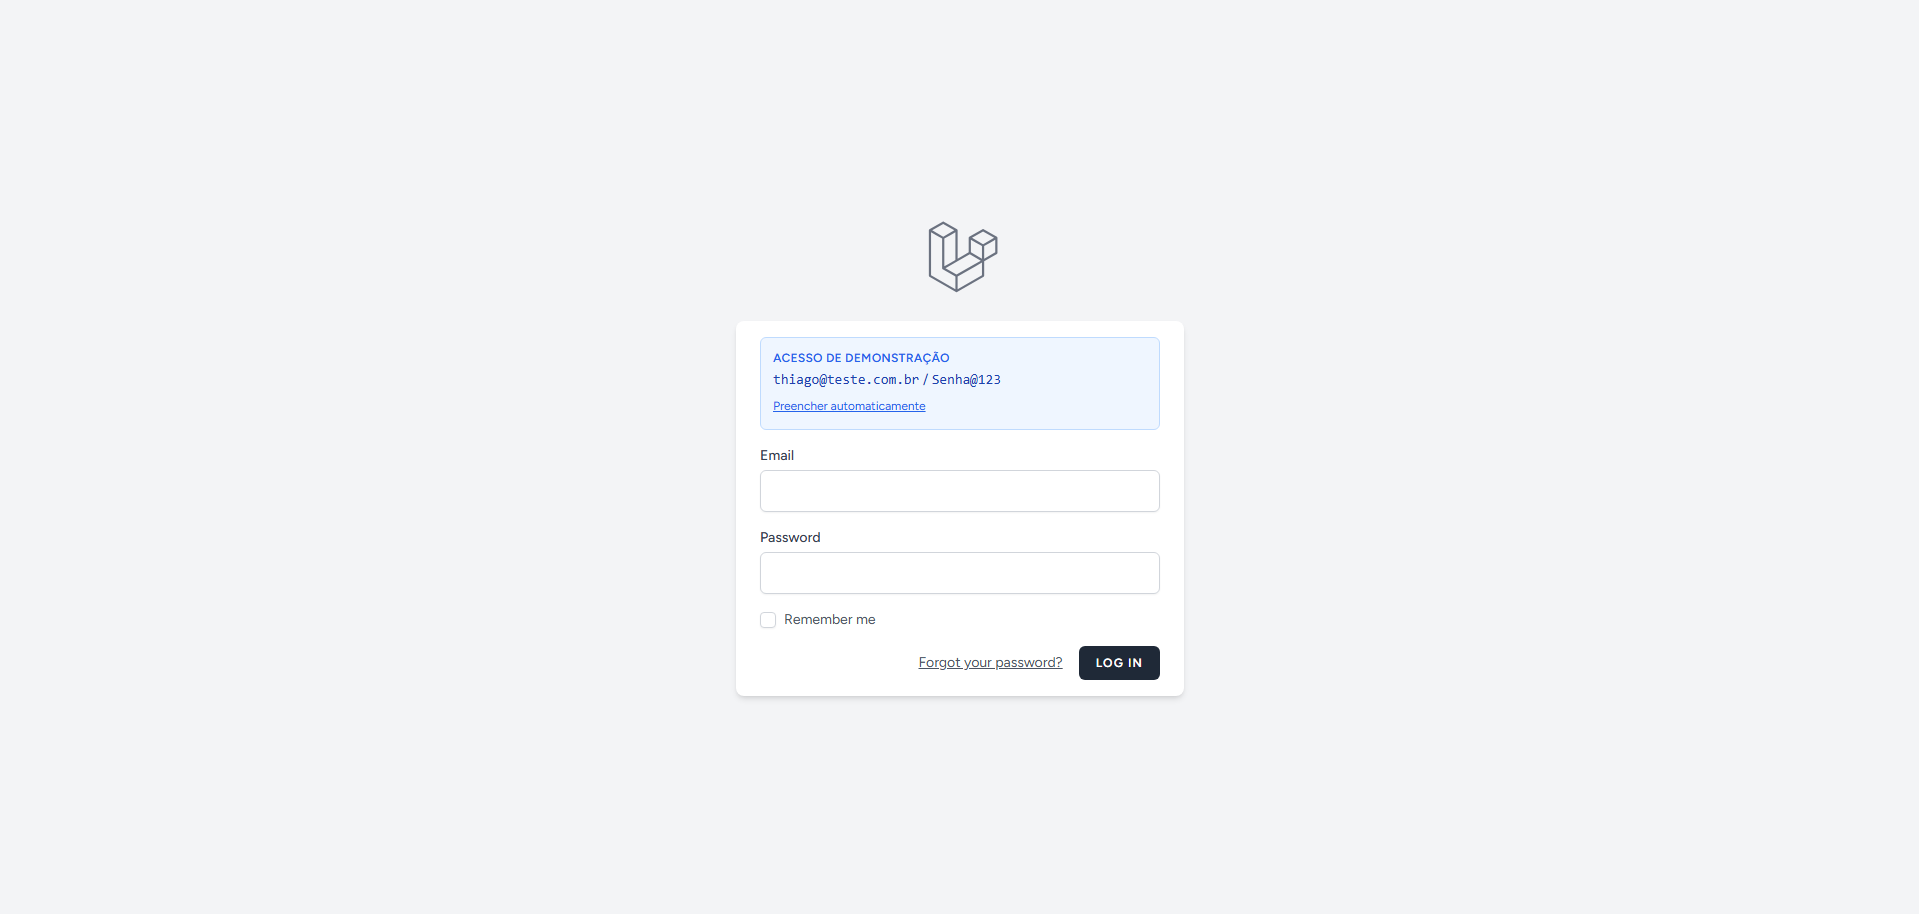
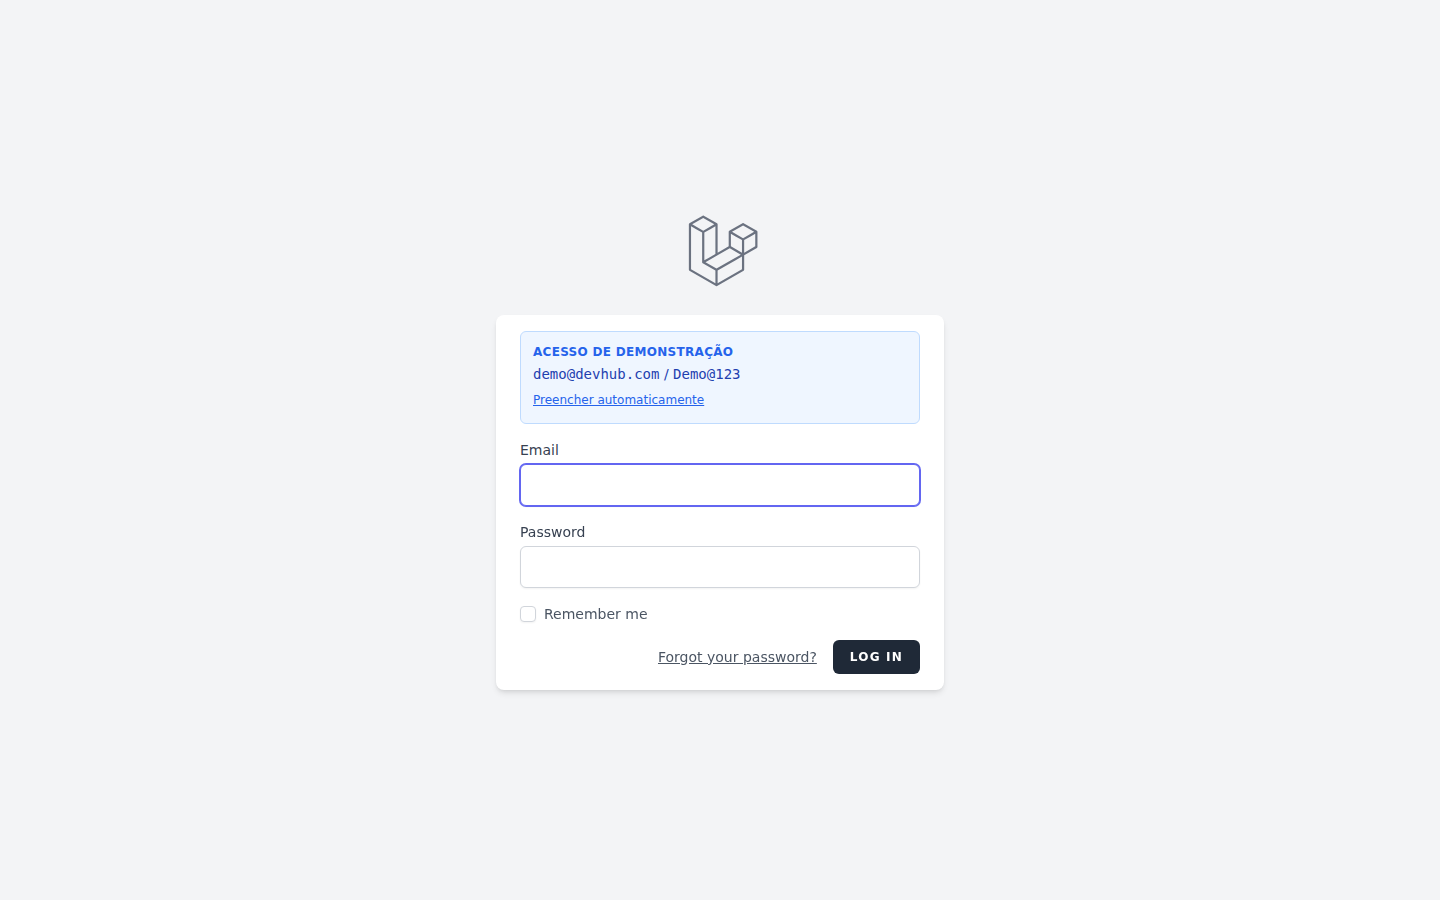
docs: atualiza README com novas funcionalidades e capturas de tela
- Documenta eventos/agenda, depoimentos, stack, página Sobre, tecnologias
  públicas e lixeira (soft delete)
- Amplia tabela da API (events, testimonials, stack, config, newsletter)
- Atualiza arquitetura, cobertura de testes (420 testes / 1693 asserções) e seed
- Adiciona prints de agenda, sobre, eventos e lixeira; atualiza GIF do
  frontend e demais capturas

diff --git a/README.md b/README.md
@@ -5,7 +5,7 @@
 ![PHP](https://img.shields.io/badge/PHP-8.3-777BB4?logo=php&logoColor=white)
 ![Laravel](https://img.shields.io/badge/Laravel-13-FF2D20?logo=laravel&logoColor=white)
 
-CMS full-stack construído do zero com Laravel 13 + React 18 — painel administrativo completo, API RESTful autenticada com Sanctum, sistema de newsletter com conformidade LGPD e frontend público com roteamento dinâmico.
+CMS full-stack construído do zero com Laravel 13 + React 18 — painel administrativo completo, API RESTful autenticada com Sanctum, sistema de newsletter com conformidade LGPD, agenda de eventos, depoimentos e um frontend público dinâmico com tema claro/escuro.
 
 > **Demo ao vivo:** [devhub-production-a6a5.up.railway.app](https://devhub-production-a6a5.up.railway.app) · **Admin:** [/admin](https://devhub-production-a6a5.up.railway.app/admin) (credenciais: `demo@devhub.com` / `Demo@123` — acesso somente leitura)
 
@@ -30,24 +30,33 @@ CMS full-stack construído do zero com Laravel 13 + React 18 — painel administ
 ## Funcionalidades
 
 ### Frontend público
-- Homepage com posts em destaque e listagem paginada
-- Página individual de post com prose rendering
-- Listagem de posts por categoria
+- Homepage modular: hero com estatísticas, post em destaque, explorador de posts, marquee de stack, carrossel de tecnologias, próximos eventos e depoimentos
+- Página individual de post com prose rendering, barra de progresso de leitura, botões de compartilhamento e navegação entre posts
+- Listagem de posts por categoria (roteamento dinâmico por slug)
+- Agenda de eventos (`/agenda`) com filtros por status, datas, CTAs e indicação de vagas
+- Página institucional "Sobre" (`/sobre`) com estatísticas e trilhas por categoria
+- Vitrine pública de tecnologias (`/tecnologias`)
+- Tema claro/escuro alternável, persistido no cliente
 - Menu de navegação dinâmico com suporte a submenus
+- `sitemap.xml` gerado dinamicamente
 - Banner de privacidade (LGPD)
 - Formulário de newsletter com consentimento explícito (LGPD)
 
 ### Painel administrativo
-- **Posts** — CRUD completo com editor rich-text (TipTap), upload de banner, slug automático, toggle ativo/inativo
-- **Páginas** — CRUD de páginas estáticas com banner, imagem principal, galeria de fotos e campos de SEO
-- **Categorias** — CRUD com cor customizável
+- **Posts** — CRUD completo com editor rich-text (TipTap), upload de banner, slug automático, agendamento de publicação, destaque na home e toggle ativo/inativo
+- **Páginas** — CRUD de páginas estáticas com imagem principal, galeria de fotos e campos de SEO
+- **Categorias** — CRUD com cor e ícone customizáveis
 - **Blocos de conteúdo** — trechos de HTML reutilizáveis identificados por slug
 - **Tecnologias** — vitrine de ferramentas com ícone, screenshot e link, reordenáveis
+- **Eventos** — agenda com tipo, data/hora, formato (online/presencial), status, CTA e controle de vagas, com filtros por período/tipo/status
+- **Depoimentos** — testemunhos com avatar, cargo e empresa, reordenáveis
+- **Stack** — itens de tecnologia exibidos no marquee da home, reordenáveis
 - **Menu** — gerenciamento de itens de navegação com suporte a hierarquia pai/filho e reordenação
 - **Configurações** — painel centralizado para nome do site, tagline, redes sociais, contato e scripts de terceiros
 - **Newsletter** — áreas temáticas, inscritos com consentimento LGPD e campanhas de e-mail
 - **Permissões e Papéis** — controle de acesso baseado em papéis (via Spatie Laravel Permission)
 - **Usuários** — gerenciamento de usuários e atribuição de papéis
+- **Lixeira** — soft delete em posts, categorias e páginas, com restauração ou exclusão definitiva e registro de quem excluiu
 - **Log de atividades** — histórico de ações com diff de alterações (via Spatie Activity Log)
 
 ### Sistema de Newsletter
@@ -63,7 +72,7 @@ CMS full-stack construído do zero com Laravel 13 + React 18 — painel administ
 - Autenticação via Bearer token (Laravel Sanctum)
 - Documentação Swagger UI disponível em `/api/docs`
 - Cache Redis em todos os endpoints com invalidação automática por tags (model events)
-- Rate limiting: `60 req/min` nos endpoints autenticados, `10 req/min` no login, `30 req/min` no health check
+- Rate limiting: `60 req/min` nos endpoints autenticados, `10 req/min` no login, `30 req/min` no health check e `5 req/h` na inscrição de newsletter
 
 | Método | Endpoint | Descrição |
 |--------|----------|-----------|
@@ -73,9 +82,16 @@ CMS full-stack construído do zero com Laravel 13 + React 18 — painel administ
 | `GET` | `/api/posts` | Lista posts ativos (paginado) |
 | `GET` | `/api/posts/{slug}` | Retorna um post pelo slug |
 | `GET` | `/api/categories` | Lista categorias |
+| `GET` | `/api/categories/{slug}` | Retorna uma categoria pelo slug |
+| `GET` | `/api/pages` | Lista páginas |
 | `GET` | `/api/pages/{slug}` | Retorna uma página |
 | `GET` | `/api/menu` | Estrutura do menu |
 | `GET` | `/api/technologies` | Lista tecnologias ativas (ordenadas) |
+| `GET` | `/api/events` | Lista eventos |
+| `GET` | `/api/testimonials` | Lista depoimentos |
+| `GET` | `/api/stack` | Lista itens de stack |
+| `GET` | `/api/config` | Configurações públicas do site |
+| `POST` | `/api/newsletter` | Inscrição na newsletter — público, com rate limit |
 | `GET` | `/api/health` | Health check (DB + cache) — público, sem autenticação |
 
 ## Arquitetura
@@ -87,13 +103,14 @@ app/
 │   └── GenerateApiToken.php
 ├── Http/
 │   ├── Controllers/
-│   │   ├── Admin/        # 18 controllers (Posts, Pages, Categories, Blocks,
-│   │   │                 # Technologies, Menu, Configs, Users, Roles,
-│   │   │                 # NewsletterAreas, NewsletterSubscribers,
-│   │   │                 # NewsletterCampaigns, ActivityLog, Gallery…)
-│   │   ├── Api/          # AuthController, PostController, CategoryController,
-│   │   │                 # PageController, MenuController, TechnologyController
-│   │   └── BlogController, HomeController, NewsletterController
+│   │   ├── Admin/        # 21 controllers (Posts, Pages, Categories, Blocks,
+│   │   │                 # Technologies, Events, Testimonials, StackItems,
+│   │   │                 # Menu, Configs, Users, Roles, NewsletterAreas,
+│   │   │                 # NewsletterSubscribers, NewsletterCampaigns,
+│   │   │                 # ActivityLog, Gallery, Reorder, Toggle…)
+│   │   ├── Api/          # Auth, Post, Category, Page, Menu, Technology,
+│   │   │                 # Event, Testimonial, Stack, Config, Health
+│   │   └── Home, Blog, Sobre, Agenda, Newsletter, Sitemap, Technology
 │   ├── Middleware/
 │   │   ├── EnsureAdmin.php
 │   │   └── ResourcePermission.php
@@ -103,12 +120,13 @@ app/
 ├── Mail/
 │   └── NewsletterCampaignMail.php
 ├── Models/               # Post, Page, GalleryImage, Category, Block, Technology,
-│                         # MenuItem, Config, User, Role,
-│                         # NewsletterArea, NewsletterSubscriber,
+│                         # Event, Testimonial, StackItem, MenuItem, Config,
+│                         # User, Role, NewsletterArea, NewsletterSubscriber,
 │                         # NewsletterCampaign, NewsletterSendLog
 ├── Services/             # PostService, PageService, TechnologyService,
-│                         # MenuService, RoleService, UserService,
-│                         # ConfigService, ActivityLogService, FileUploadService
+│                         # TestimonialService, MenuService, RoleService,
+│                         # UserService, ConfigService, ActivityLogService,
+│                         # FileUploadService
 └── Traits/
     └── HasActivityLog.php
 ```
@@ -132,6 +150,9 @@ O envio de e-mails para múltiplos inscritos é feito via Job enfileirado (Larav
 **Spatie Permission e Activity Log**
 Controle de acesso baseado em papéis (RBAC) e log de auditoria são problemas resolvidos. Os pacotes Spatie são padrão de mercado em projetos Laravel.
 
+**Soft delete com lixeira e autoria**
+Posts, categorias e páginas usam soft delete em vez de remoção física: a exclusão move o registro para uma lixeira de onde ele pode ser restaurado ou apagado em definitivo. Cada exclusão grava quem a fez (`deleted_by`), dando rastreabilidade sem depender só do log de atividades. Evita perda acidental de conteúdo — importante num CMS.
+
 **Redis para cache da API**
 Todos os endpoints da API têm a resposta cacheada no Redis usando `Cache::tags` — uma tag por recurso (posts, categories, menu, pages, technologies). A invalidação é automática via model events (`saved`/`deleted`): a cada create/update/delete, o cache da tag afetada é limpo. Dependências cruzadas são tratadas (ex.: salvar um post invalida `posts` e `categories`, pois a contagem de posts e a categoria embutida mudam; alterar uma imagem de galeria invalida `pages`). Reordenações feitas via `DB::table` — que não disparam events — invalidam as tags explicitamente no `ReorderController`. Cacheamos apenas o array já serializado pelo Resource, nunca models Eloquent. TTL de 1h como rede de segurança.
 
@@ -142,10 +163,16 @@ Os testes de feature cobrem comportamento de rotas e regras de negócio, não de
 
 ### Frontend público
 ![Homepage](docs/screenshots/homepage.png)
-*Homepage com hero, listagem de posts e captação de newsletter*
+*Homepage com hero, post em destaque, explorador de posts, eventos e depoimentos*
 
 ![Post individual](docs/screenshots/post.png)
 *Página de post com rich-text e metadados*
+
+![Agenda de eventos](docs/screenshots/agenda.png)
+*Agenda de eventos com filtros por status, datas, CTAs e indicação de vagas*
+
+![Página Sobre](docs/screenshots/sobre.png)
+*Página institucional com estatísticas e trilhas de conteúdo*
 
 ### Painel administrativo
 
@@ -160,6 +187,12 @@ Os testes de feature cobrem comportamento de rotas e regras de negócio, não de
 
 ![Editor de post](docs/screenshots/post-editor.png)
 *Edição de post com editor rich-text (TipTap), categoria, descrição e SEO*
+
+![Eventos](docs/screenshots/events-list.png)
+*Gerenciamento de eventos com filtros por período, tipo e status*
+
+![Lixeira](docs/screenshots/posts-trashed.png)
+*Lixeira (soft delete) com restauração, exclusão definitiva e registro de quem excluiu*
 
 ![Papéis e permissões](docs/screenshots/roles-permissions.png)
 *Controle de acesso por papéis (RBAC) — permissões por módulo e ação*
@@ -227,11 +260,14 @@ docker exec app php artisan db:seed
 ```
 
 Isso cria:
-- 1 usuário admin (`thiago@teste.com.br` / `Senha@123`)
-- 6 categorias e 6 posts com imagens
+- Usuário admin (`admin@teste.com.br` / `Senha@123`) e usuário demo somente-leitura (`demo@devhub.com` / `Demo@123`)
+- Papéis e permissões (RBAC)
+- Categorias e posts com imagens
 - Páginas "Sobre Nós" e "Política de Privacidade"
-- 8 tecnologias e áreas de newsletter
-- Configurações do site e menu de navegação completo
+- Tecnologias, itens de stack, depoimentos e eventos
+- Áreas de newsletter, configurações do site e menu de navegação completo
+
+> As senhas do seed podem ser sobrescritas por variáveis de ambiente (`SEED_*`); sem elas, valem os padrões de desenvolvimento acima.
 
 ### 6. Configure o host local
 
@@ -290,24 +326,27 @@ Os testes usam SQLite in-memory e não afetam o banco de desenvolvimento.
 docker exec app php artisan test
 ```
 
-**Resultado atual: 242 testes, 856 asserções — 100% passando**
+**Resultado atual: 420 testes, 1693 asserções — 100% passando**
 
 Cobertura por módulo:
 
 | Módulo | Testes |
 |--------|--------|
-| API (auth, posts, paginação, slug, 404) | `Api/PostApiTest`, `Api/ValidateApiTokenTest` |
-| Admin — Posts | CRUD completo, upload de banner, permissões |
+| API | Auth, Posts, Categories, Pages, Menu, Technologies, Events, Testimonials, Stack, Config, Health, Newsletter e validação de token |
+| Admin — Posts | CRUD completo, upload de banner, agendamento, soft delete e permissões |
 | Admin — Categories, Blocks, Pages, Technologies | CRUD, upload de imagens e permissões |
+| Admin — Events, Testimonials, Stack | CRUD, filtros, reordenação e permissões |
 | Admin — Menu | CRUD e reordenação |
-| Admin — Newsletter areas e subscribers | CRUD e conformidade |
+| Admin — Newsletter areas, subscribers e campanhas | CRUD, conformidade e envio |
 | Admin — Roles e Users | Criação, proteção de perfis de sistema, controle de super admin |
-| Admin — Reorder | Transações e validação de módulos |
+| Admin — Reorder e Toggle | Transações, validação de módulos e ativação |
 | Admin — ImageDelete | Remoção de imagens avulsas em Posts, Pages e Technologies |
+| Público | Home, Blog, Agenda, Sobre, Tecnologias, Stack e Sitemap |
 | Auth | Login, registro, reset de senha, verificação de e-mail |
 | Perfil | Atualização e exclusão de conta |
 | Models | Limpeza de arquivos em Posts, Pages e GalleryImages |
-| Services | PostService, PageService e TechnologyService (criação, atualização, deleção, upload) |
+| Services | PostService, PageService, TechnologyService, MenuService, ConfigService e UserService |
+| Console / Jobs | Despacho de newsletters agendadas e envio assíncrono de campanhas |
 
 ## Variáveis de ambiente relevantes
 
@@ -320,3 +359,4 @@ Cobertura por módulo:
 | `QUEUE_CONNECTION` | Driver de fila (`database` em produção) |
 | `MAIL_*` | Configuração SMTP para envio de newsletters |
 | `FILESYSTEM_DISK` | Disco para upload de arquivos (padrão: `public`) |
+| `SEED_*` | Credenciais dos usuários criados pelo seeder (admin e demo) |
